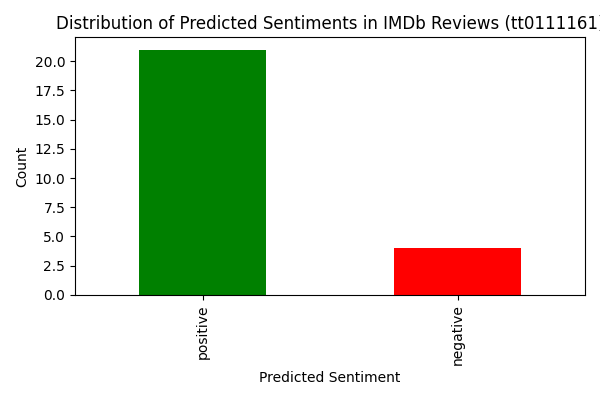
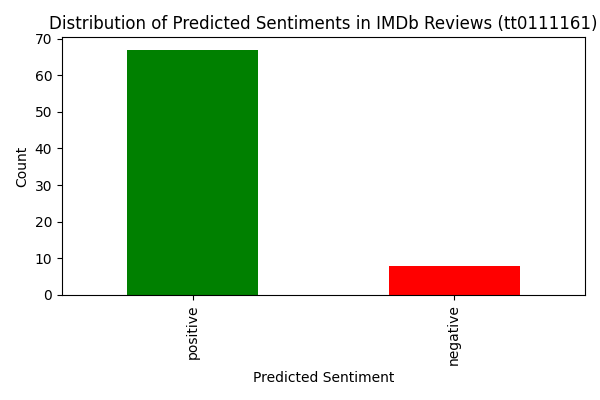
Added Progress Bar and added a input for user to select no of pages to scrape

diff --git a/App.py b/App.py
@@ -20,26 +20,79 @@ movie_name = ""
 
 
 # Function to scrape IMDb movie reviews
-def scrape_imdb_reviews(movie_url):
+from selenium import webdriver
+from selenium.webdriver.chrome.options import Options
+from selenium.webdriver.common.by import By
+from bs4 import BeautifulSoup
+import requests
+
+from selenium import webdriver
+from selenium.webdriver.chrome.options import Options
+from selenium.webdriver.common.by import By
+from selenium.common.exceptions import NoSuchElementException
+from bs4 import BeautifulSoup
+import requests
+
+def scrape_imdb_reviews(movie_url, no_of_pages):
     global movie_name
+    global my_bar
+    # Set up ChromeOptions for headless browsing
+    chrome_options = Options()
+    chrome_options.add_argument("--headless")
+    chrome_options.add_argument("--disable-gpu")  # Necessary for headless mode on some systems
+    chrome_options.add_argument("--window-size=1920x1080")  # Set a reasonable window size
 
-    response = requests.get(movie_url)
-    soup = BeautifulSoup(response.text, "html.parser")
+    # Create a headless WebDriver
+    driver = webdriver.Chrome(options=chrome_options)
 
-    movie_element = soup.find("h3", itemprop="name")
+    try:
+        # Navigate to the movie URL using the headless WebDriver
+        driver.get(movie_url)
 
-    if movie_element:
-        movie_name = movie_element.find("a").get_text(strip=True)
-    else:
-        print("None")
+        # Extracting movie name
+        movie_element = driver.find_element(By.CSS_SELECTOR, "h3[itemprop='name'] a")
+        movie_name = movie_element.text.strip()
 
-    # Extracting review text
-    reviews = [
-        {"text": review_div.get_text(strip=True)}
-        for review_div in soup.find_all("a", class_="title")
-    ]
+        # Print the movie name (optional)
+        print(f"Movie Name: {movie_name}")
+        
+        NoOfLoadMore = 0
+        per_cycle_increment = 100 / int(no_of_pages)
+        
+        # Click "load more" button until the user wants
+        while NoOfLoadMore < int(no_of_pages):
+            try:
+                my_bar.progress(int(per_cycle_increment) * NoOfLoadMore, text=progress_text)
+                # Extracting "load more" button and clicking it
+                loadMoreElement = driver.find_element(By.ID, "load-more-trigger")
+                loadMoreElement.click()
+                NoOfLoadMore += 1
 
-    return reviews
+                # Wait for dynamic content to load (adjust as needed)
+                driver.implicitly_wait(5)
+
+            except NoSuchElementException:
+                # Break the loop when the "load more" button is not found
+                break
+            
+
+        # Extracting review text after all "load more" clicks
+        soup = BeautifulSoup(driver.page_source, "html.parser")
+        reviews = [
+            {"text": review_div.get_text(strip=True)}
+            for review_div in soup.find_all("a", class_="title")
+        ]
+        
+        my_bar.empty()
+
+        return reviews
+
+    except Exception as e:
+        print(f"An error occurred: {e}")
+
+    finally:
+        # Close the WebDriver after scraping
+        driver.quit()
 
 
 # Function for text cleaning
@@ -68,12 +121,12 @@ def lemmatize_text(tokens):
 
 
 # Function to perform sentiment analysis
-def perform_sentiment_analysis(movie_code):
+def perform_sentiment_analysis(movie_code, num_of_pages):
     # IMDb movie URL
     movie_url = f"https://www.imdb.com/title/{movie_code}/reviews"
 
     # Scrape IMDb movie reviews
-    movie_reviews = scrape_imdb_reviews(movie_url)
+    movie_reviews = scrape_imdb_reviews(movie_url, num_of_pages)
 
     # Convert the list of dictionaries to a DataFrame
     df = pd.DataFrame(movie_reviews)
@@ -156,12 +209,16 @@ GetCode = st.image(
 
 # Input field for IMDb code
 movie_code = st.text_input("Enter IMDb Code (e.g., tt12915716, tt0111161):")
+num_of_pages = st.text_input("Enter No. of Review Pages to scrape (Enter 0 for scraping all the reviews <- Takes more time):")
 
+progress_text = "Operation in progress. Please wait."
 
 # Button to trigger sentiment analysis
 if st.button("Perform Sentiment Analysis"):
     if movie_code:
         GetCode.empty()
-        perform_sentiment_analysis(movie_code)
+        my_bar = st.progress(0, text=progress_text)
+        # with st.spinner('Loading...'):
+        perform_sentiment_analysis(movie_code, num_of_pages)
     else:
         st.warning("Please enter a valid IMDb Code.")
